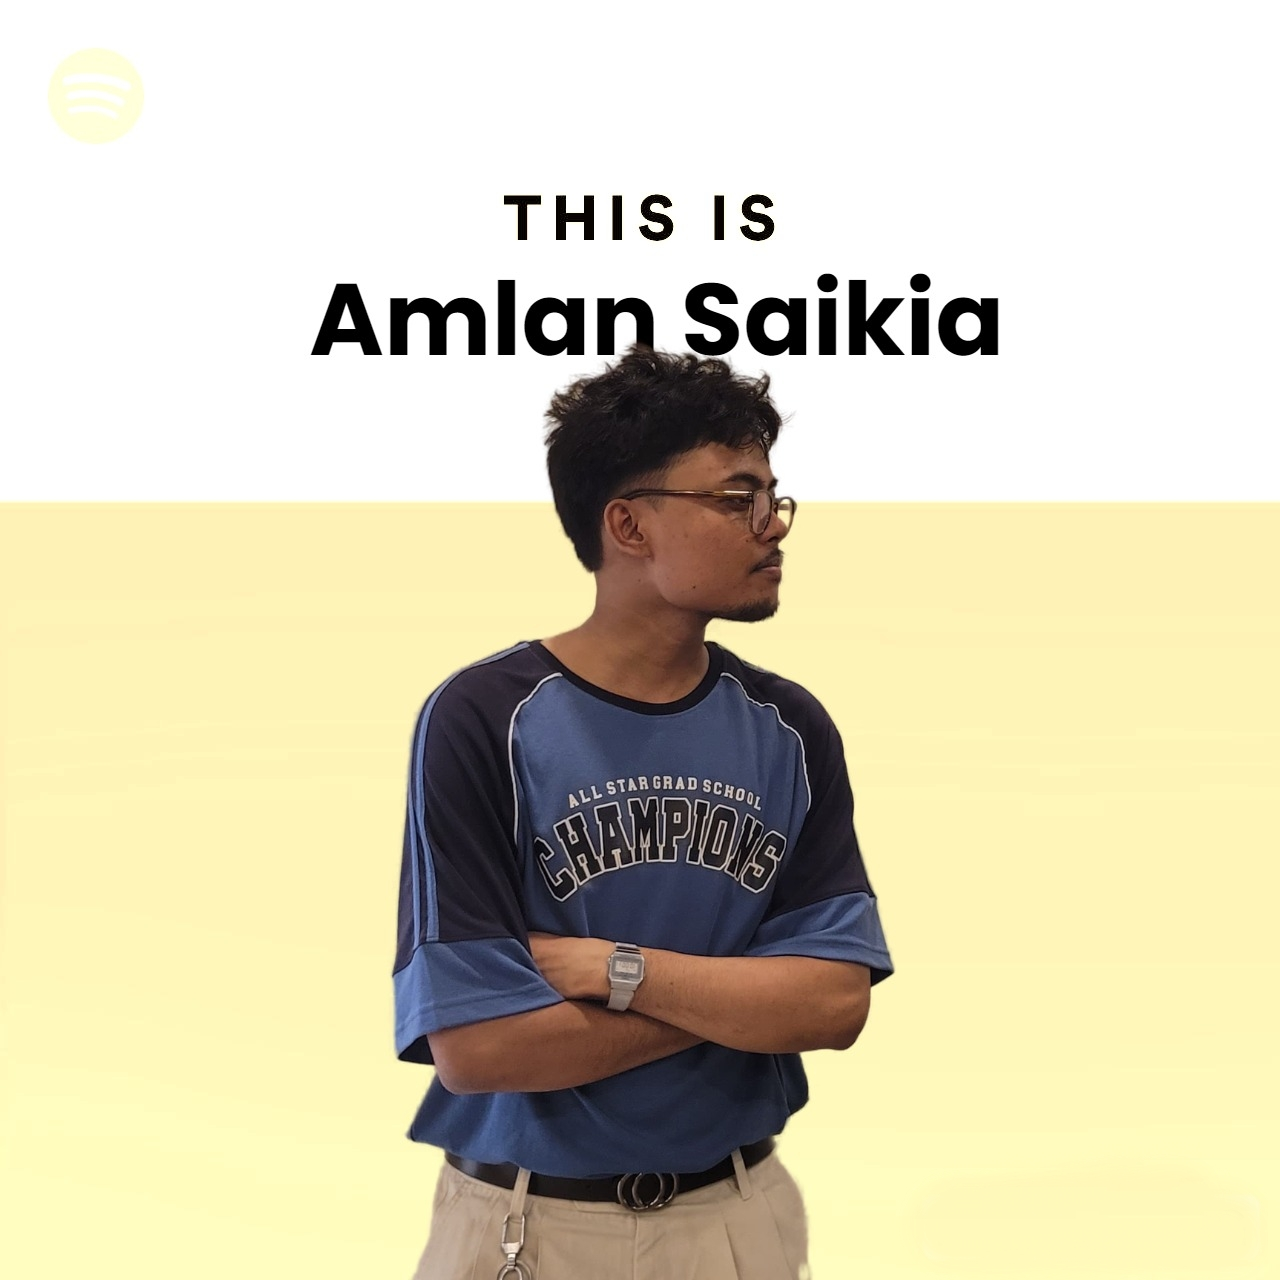
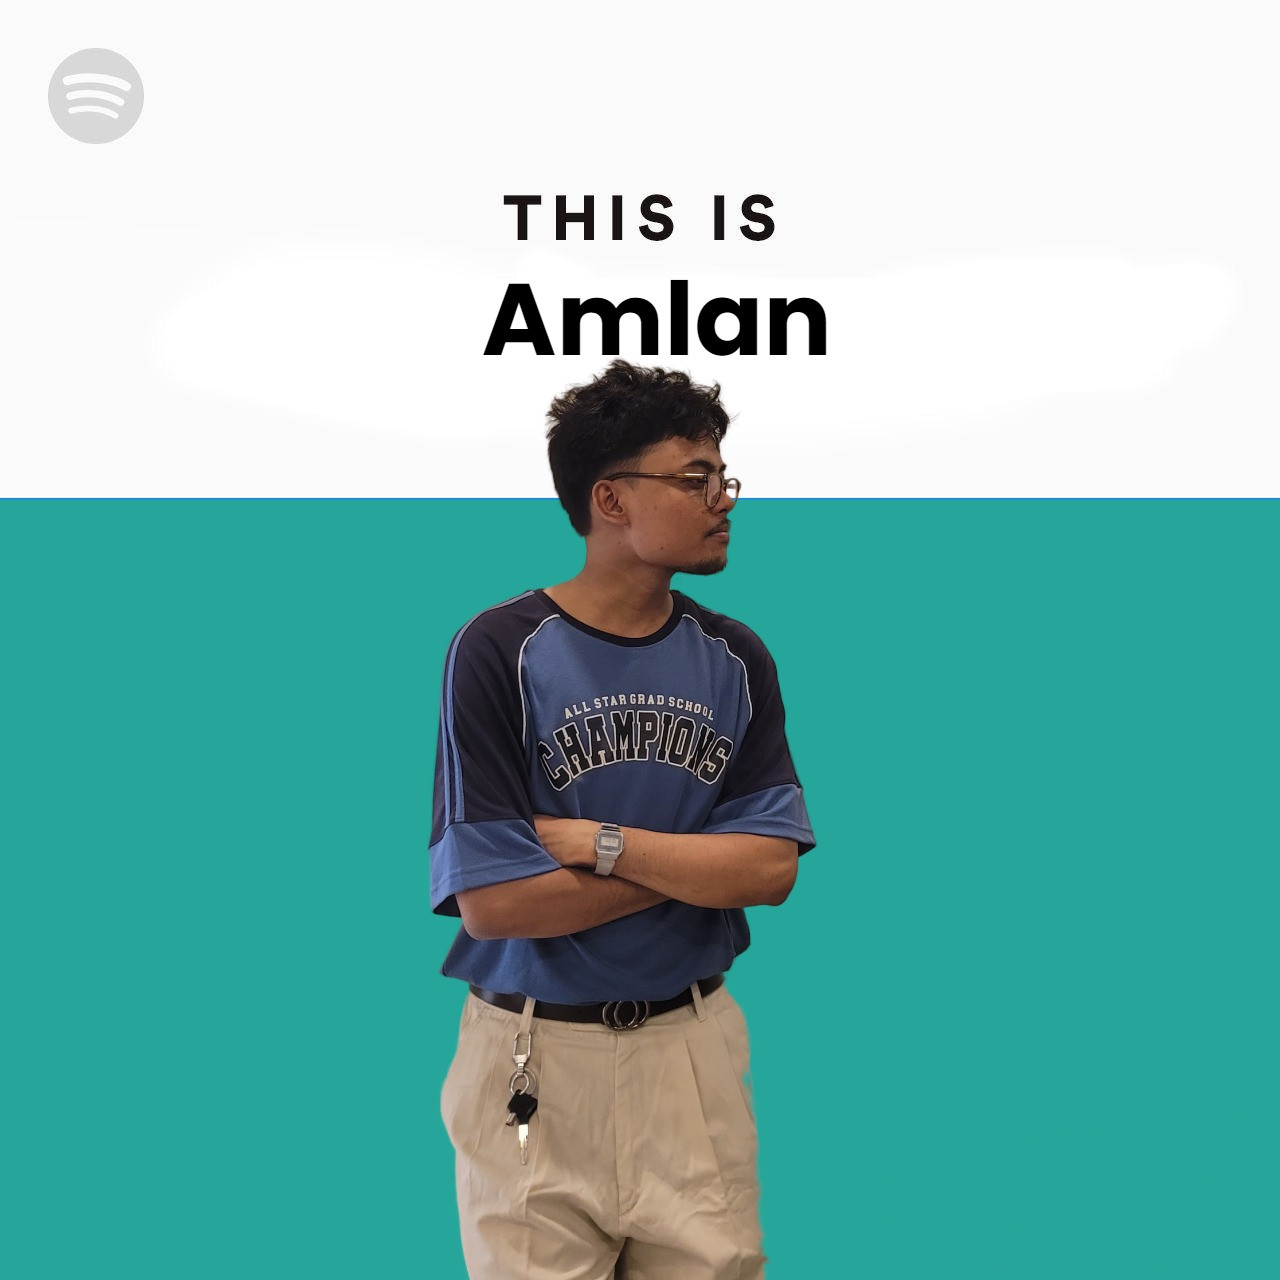
gallery replaced with experience card, minor ui changes

diff --git a/src/app/components/ExpCard.js b/src/app/components/ExpCard.js
@@ -1,0 +1,56 @@
+import React from "react";
+
+function ExpCard() {
+  return (
+    <div className="flex flex-col">
+      <div>
+        <div className="title text-xl font-medium w-full">Experience</div>
+      </div>
+      <div
+        className="expcard p-5 rounded-xl flex flex-col h-full
+        justify-around bg-slate-400 bg-clip-padding backdrop-filter backdrop-blur-3xl bg-opacity-10 my-3"
+      >
+        <div className="flex gap-5 items-center justify-between">
+          <div className="position font-semibold">Software Developer</div>
+          <div>
+            <div className="company text-sm">National Informatics Centre</div>
+            <div className="text-xs text-right">
+              Assam State Centre, Guwahati
+            </div>
+            <div className="duration text-xs text-right opacity-60">
+              Aug 2024 - Present
+            </div>
+          </div>
+        </div>
+        <div className="flex gap-5 items-center justify-between">
+          <div className="position font-semibold">Support Team Lead</div>
+          <div>
+            <div className="company text-sm">National Informatics Centre</div>
+            <div className="text-xs text-right">
+              Assam State Centre, Guwahati
+            </div>
+            <div className="duration text-xs text-right opacity-60">
+              Dec 2023 - Jul 2024
+            </div>
+          </div>
+        </div>
+        <div className="flex gap-5 items-center justify-between">
+          <div className="position font-semibold">
+            Application Support Engineer
+          </div>
+          <div>
+            <div className="company text-sm">National Informatics Centre</div>
+            <div className="text-xs text-right">
+              Assam State Centre, Guwahati
+            </div>
+            <div className="duration text-xs text-right opacity-60">
+              Aug 2023 - Nov 2023
+            </div>
+          </div>
+        </div>
+      </div>
+    </div>
+  );
+}
+
+export default ExpCard;

diff --git a/src/app/components/IntroSection.js b/src/app/components/IntroSection.js
@@ -5,19 +5,19 @@ function IntroSection() {
   return (
     <main className="introsection h-60 flex gap-8 p-8 z-10">
       <motion.div
-        className="introtext p-8 w-3/4 rounded-xl"
+        className="introtext p-8 w-3/4 rounded-xl text-justify font-normal"
         initial={{ opacity: 0, y: 30 }}
         animate={{ opacity: 1, y: 0 }}
         transition={{ duration: 1.5, ease: "easeOut" }}
       >
-        Lorem, ipsum dolor sit amet consectetur adipisicing elit. Rerum dolorem
-        cupiditate quia quibusdam voluptatem perspiciatis perferendis est,
-        obcaecati illo quisquam deleniti quis minima ipsum corrupti suscipit ab,
-        tempore dicta minus.
+        I'm <span className="font-medium">Amlan</span>, a passionate{" "}
+        <span className="font-medium">Software Developer</span> by profession. I
+        spend my weekends watching films and listening to indie rock music.
+        Mountains are my therapist.
       </motion.div>
       <div className="photo rounded-xl">
         <img
-          src="this-is.jpg"
+          src="this-is-2.jpg"
           alt=""
           className="h-full object-contain rounded-xl"
         />

diff --git a/src/app/components/SocialCard.js b/src/app/components/SocialCard.js
@@ -1,18 +1,16 @@
 import React from "react";
 import * as motion from "framer-motion/client";
+import { useState } from "react";
 
 function SocialCard({ name, icon, link }) {
   return (
     <motion.a
       href={link}
       target="_blank"
-      className="socialcard text-sm rounded-xl p-2 w-5/12 aspect-square flex justify-center"
+      className="socialcard text-sm rounded-full p-2 w-5/12 aspect-square flex justify-center z-10"
       whileHover={{
-        scale: 1.1,
-        boxShadow:
-          "0px 0px 20px 5px rgba(98, 208, 137, 0.8), 0px 0px 30px rgba(246, 205, 97, 0.8)",
+        scale: 1.05,
         color: "#fff",
-        border: "2px solid rgba(98, 208, 137, 0.8)",
       }}
       transition={{
         type: "spring",
@@ -21,7 +19,7 @@ function SocialCard({ name, icon, link }) {
         background: { duration: 0.8, delay: 0.1 },
         color: { duration: 0.5 },
         boxShadow: { duration: 0.4 },
-        border: { duration: 0.4 },
+        border: { duration: 0.2 },
       }}
     >
       <div className="w-1/2 flex justify-around flex-col items-center">

diff --git a/src/app/components/LinksSection.js b/src/app/components/LinksSection.js
@@ -1,5 +1,6 @@
 import React, { useState } from "react";
 import SocialCard from "./SocialCard";
+import ExpCard from "./ExpCard";
 
 const socials = [
   {
@@ -24,23 +25,10 @@ const socials = [
   },
 ];
 
-const images = [
-  "https://images.pexels.com/photos/1128797/pexels-photo-1128797.jpeg?auto=compress&cs=tinysrgb&w=1260&h=750&dpr=1",
-  "https://images.pexels.com/photos/247599/pexels-photo-247599.jpeg?auto=compress&cs=tinysrgb&w=1260&h=750&dpr=1",
-  "https://cdn.pixabay.com/photo/2024/01/04/21/54/volcano-8488486_1280.jpg",
-];
-
 function LinksSection() {
   return (
     <main className="linkssection flex p-8 justify-between z-10">
-      <div className="slideshow w-1/2">
-        <div className="title text-xl font-medium">Gallery</div>
-        <img
-          className="my-3 rounded-xl"
-          src="https://cdn.pixabay.com/photo/2024/01/04/21/54/volcano-8488486_1280.jpg"
-          alt=""
-        />
-      </div>
+      <ExpCard />
       <div className="links w-2/5 px-8 h-full">
         <div className="title text-xl font-medium">Get In Touch</div>
         <div

diff --git a/src/app/components/ProjectsCard.js b/src/app/components/ProjectsCard.js
@@ -4,7 +4,7 @@ function ProjectsCard({ data, motion }) {
   return (
     <motion.div
       variants={{ hidden: { opacity: 0 }, show: { opacity: 1 } }}
-      className="projectscard rounded-md p-6 hover:bg-gray-800 aspect-square relative"
+      className="projectscard rounded-md p-6 hover:bg-slate-400 hover:bg-clip-padding hover:backdrop-filter hover:backdrop-blur-3xl hover:bg-opacity-10 aspect-square relative"
       whileHover="hover"
     >
       <div className="relative h-60 w-60">
@@ -23,7 +23,7 @@ function ProjectsCard({ data, motion }) {
           transition={{ duration: 0.3, ease: "easeInOut" }}
         >
           <a href={data.link} target="_blank">
-            <img src="/code-branch.png" alt="" className="h-10 w-10" />
+            <img src="/code-branch.png" alt="" className="h-7 w-7" />
           </a>
         </motion.div>
       </div>

diff --git a/src/app/components/MainCard.js b/src/app/components/MainCard.js
@@ -39,7 +39,6 @@ function MainCard() {
         background: "rgba(255, 255, 255, 0.1)",
       }}
     >
-      {/* Cursor radius glow effect with radius set to 30% */}
       <div
         className="absolute pointer-events-none"
         style={{
@@ -47,7 +46,7 @@ function MainCard() {
           left: 0,
           width: "100%",
           height: "100%",
-          background: `radial-gradient(circle at ${mousePosition.x}px ${mousePosition.y}px, rgba(98, 208, 137, 0.5), transparent 40%)`,
+          background: `radial-gradient(circle at ${mousePosition.x}px ${mousePosition.y}px, rgba(98, 208, 137, 0.6), transparent 40%)`,
           transition: "background 8s ease-out",
         }}
       ></div>
